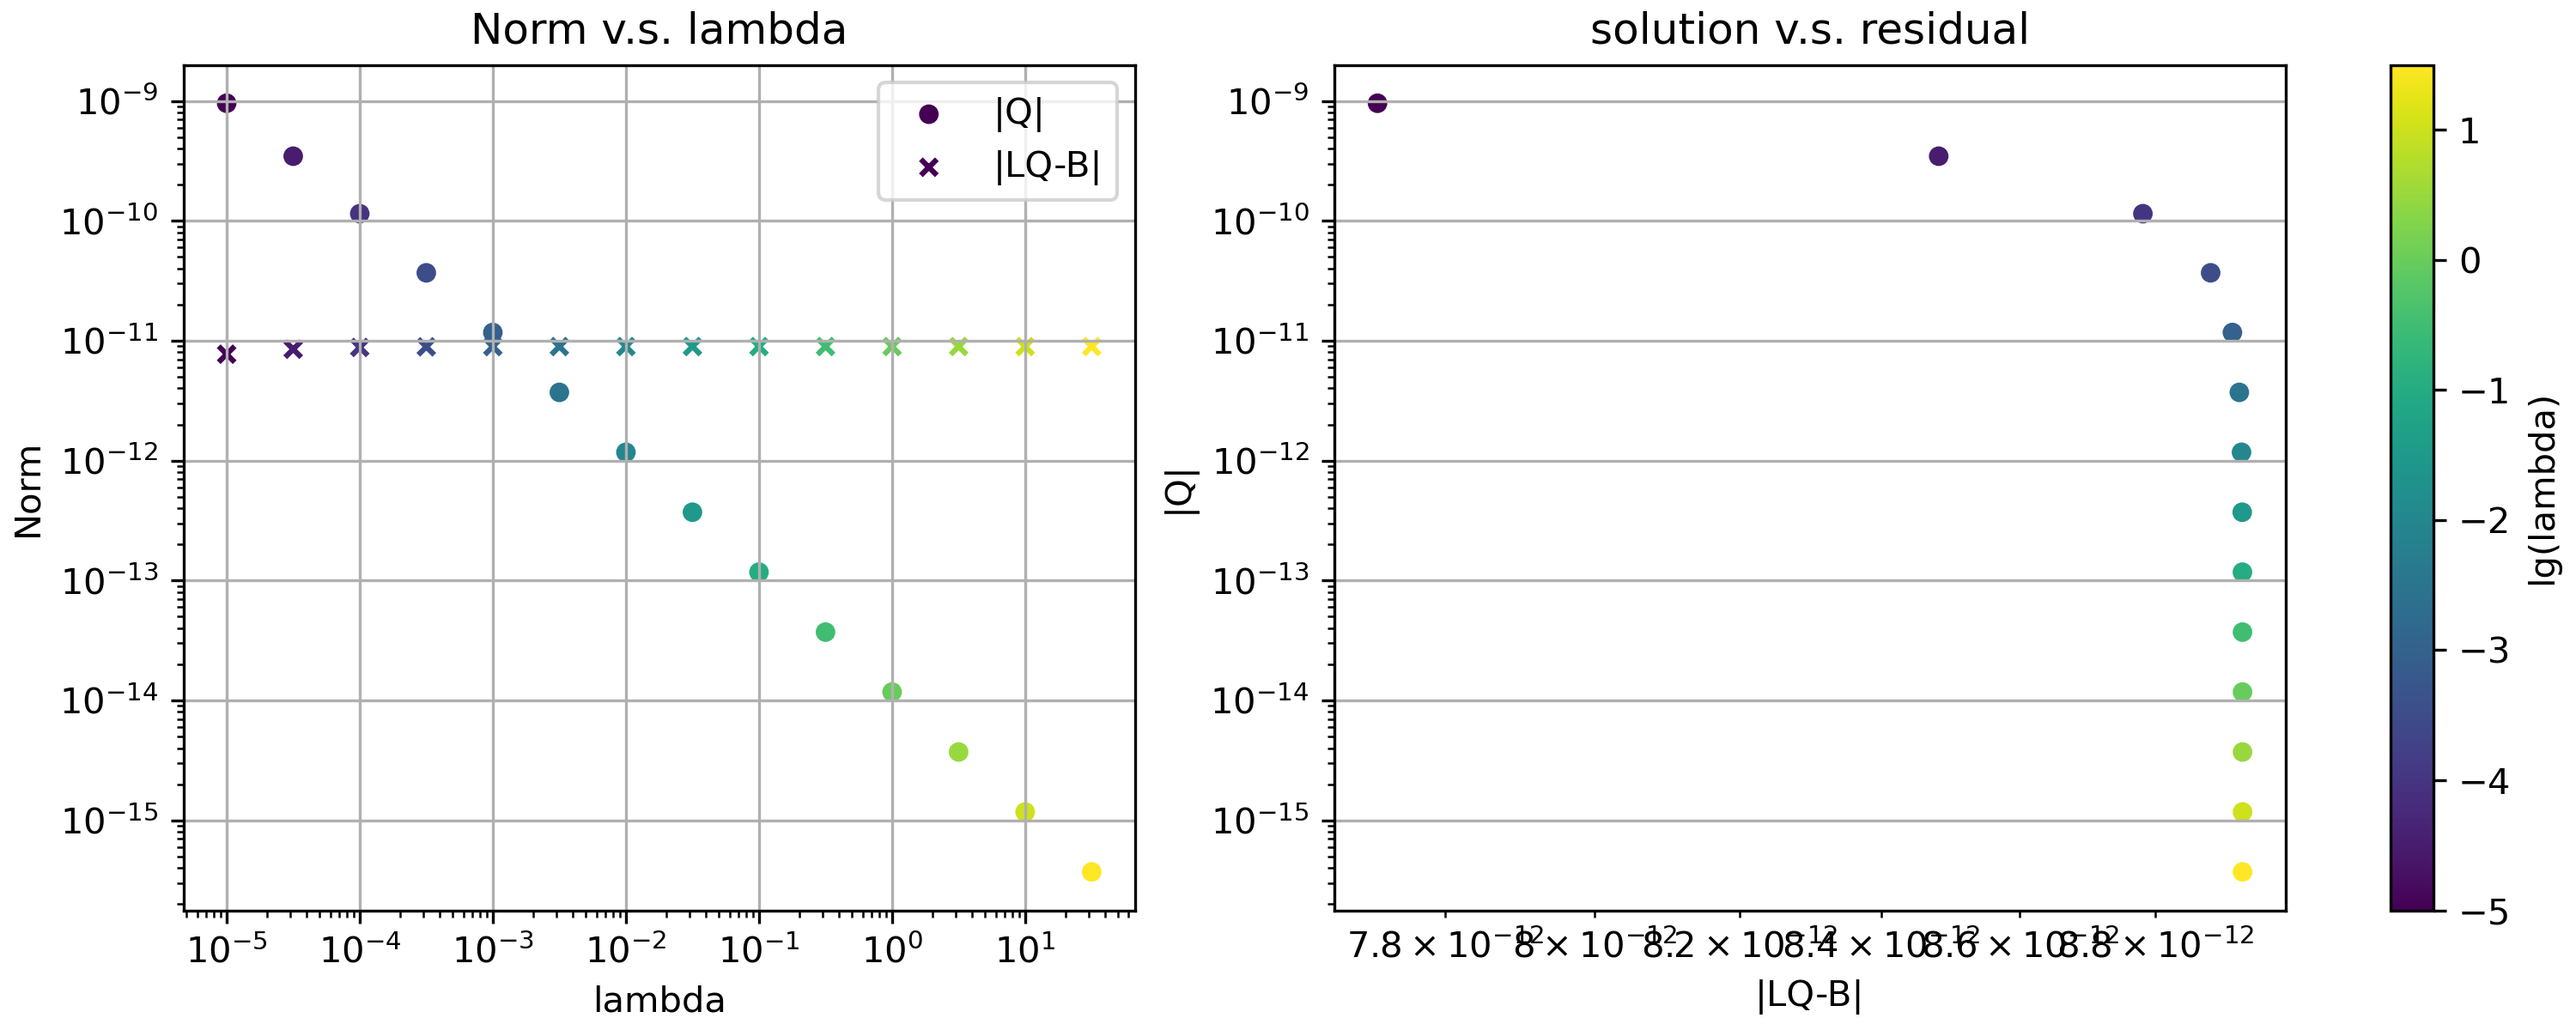
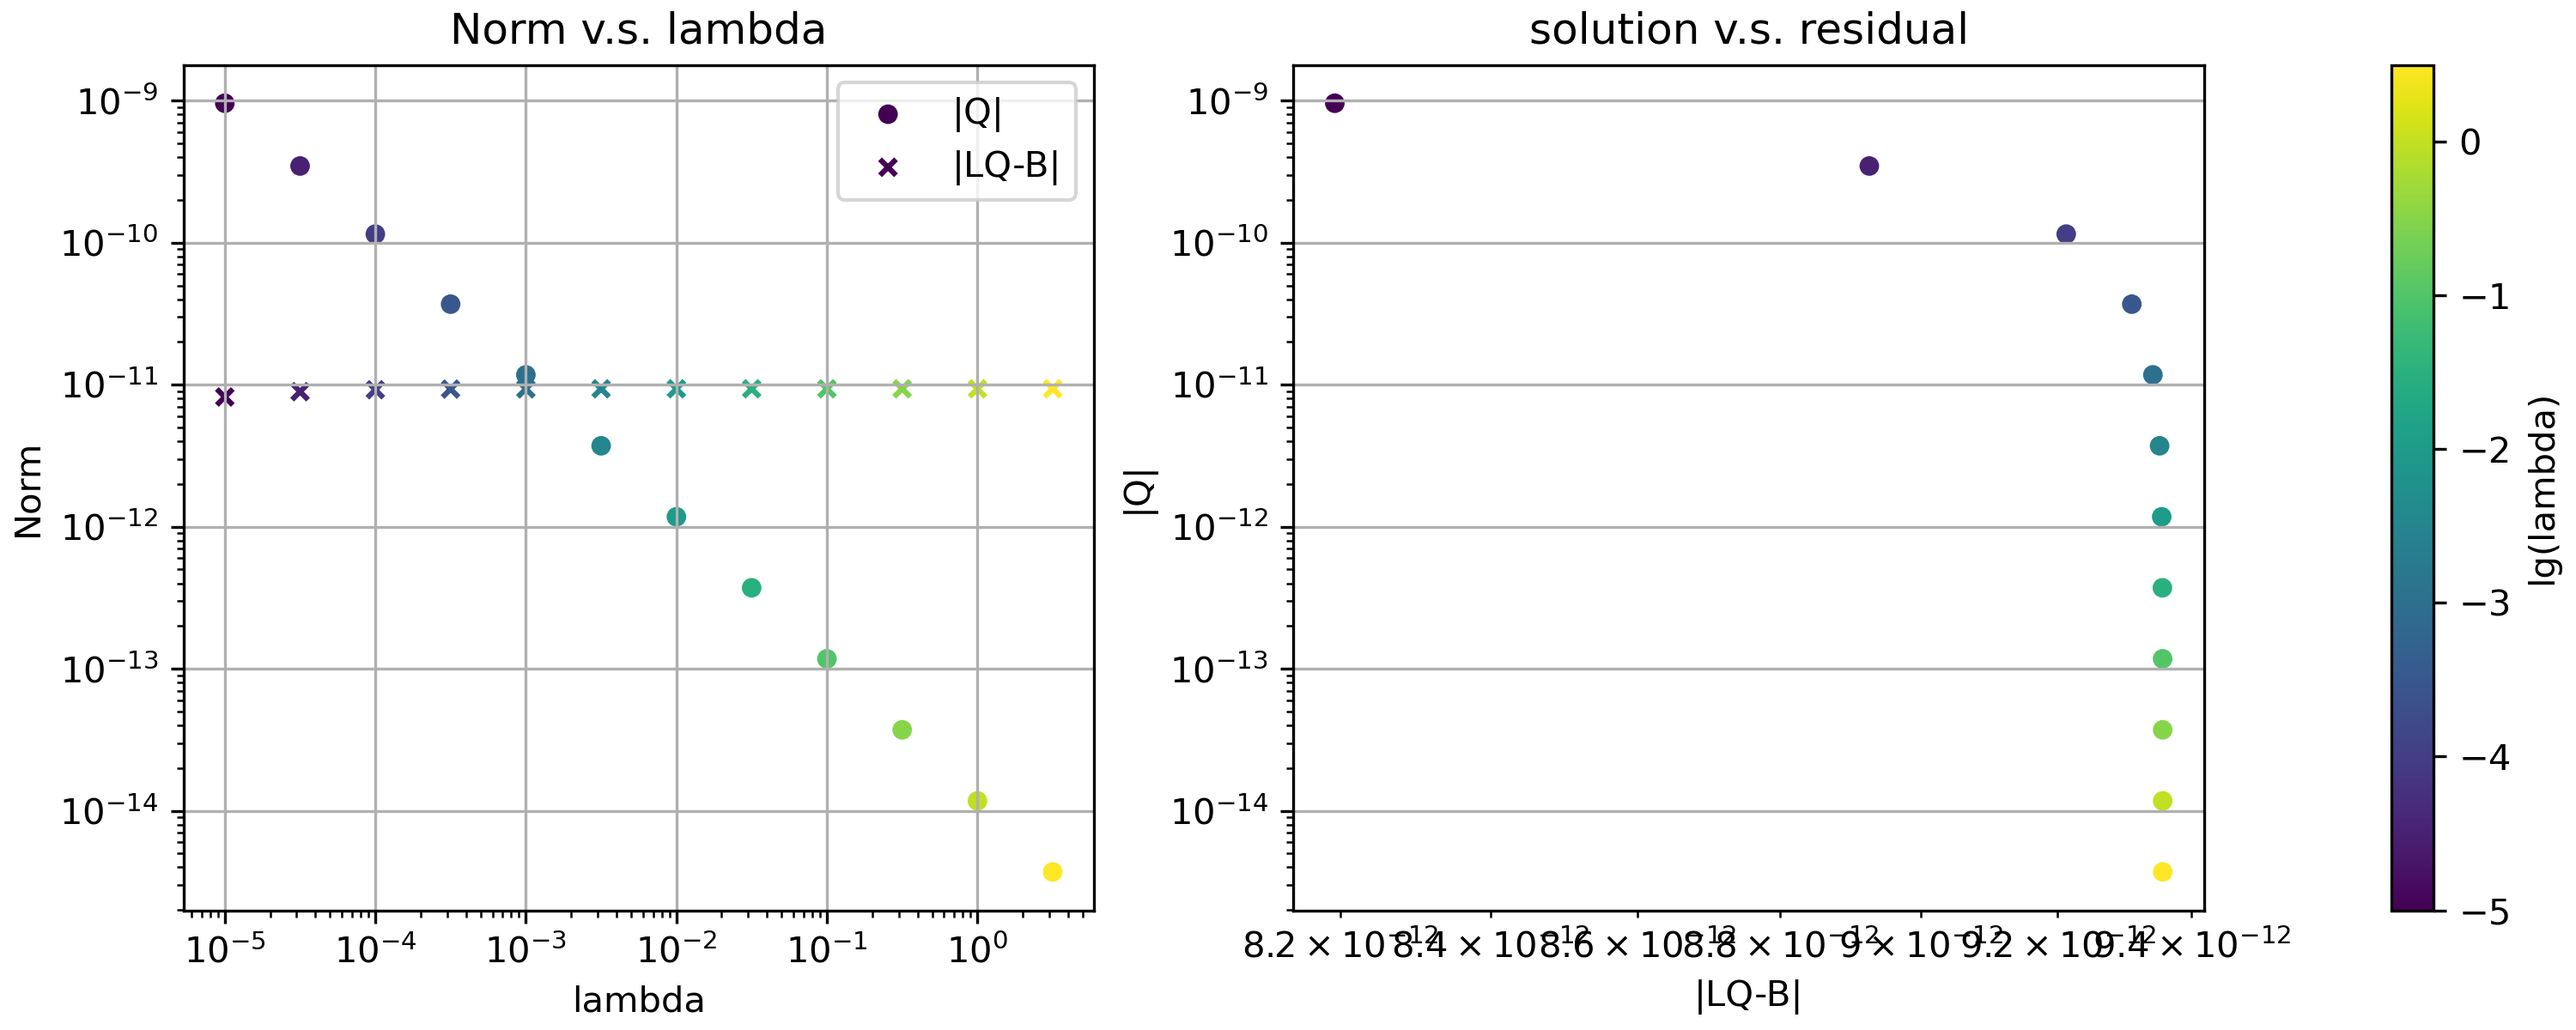
调整 example_4 中参数区间

diff --git a/examples/example_4.py b/examples/example_4.py
@@ -38,8 +38,8 @@ B0 = L0 @ Q0
 B = B0 + np.random.randn()*100e-15 # 添加噪声
 
 L = computeLeadFieldMatrix(rps,nps,rss,nss)
-params_exp = np.arange(-5,2,0.5)
-params = np.array([10**p for p in params_exp])
+params_exp = np.arange(-5,1,0.5)
+params = np.array([10**float(p) for p in params_exp])
 
 normQ, normResidual = computeLCurve(L,B,params)
 
